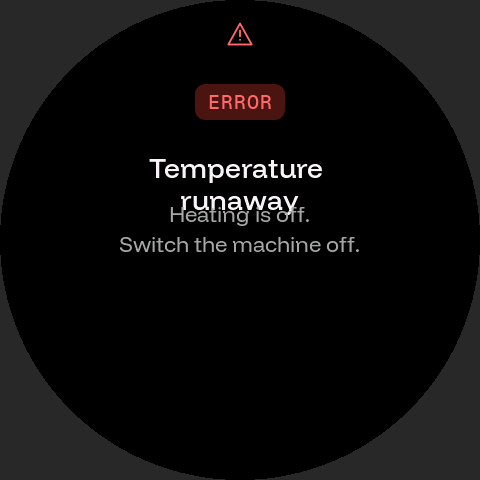
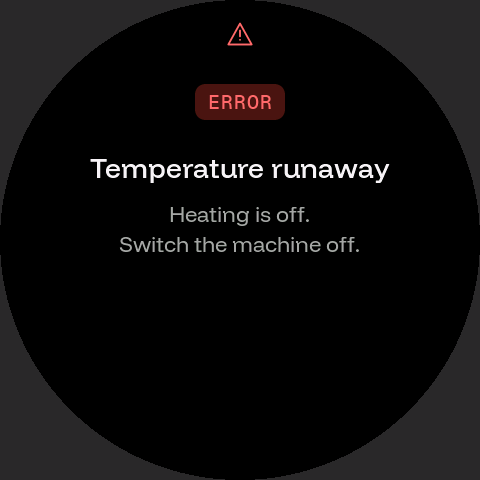
Display: a fault's title is one line across the content width
"Temperature runaway" wrapped in the 276 px square and its second line ran into the sentence under it. The
core check now asserts the title clears the first line.

Changed region(s): [[0.1875, 0.3125, 0.8125, 0.375], [0.375, 0.4062, 0.625, 0.4375]]

diff --git a/src/display/ui/bettermate/screens/FaultScreen.cpp b/src/display/ui/bettermate/screens/FaultScreen.cpp
@@ -46,7 +46,10 @@ void FaultScreen::build(lv_obj_t *root) {
     chip = part(ui::chip(root, 240 - CHIP_WIDTH / 2, CHIP_Y, "ERROR", Tone::DangerSoft, Tone::Danger), 0);
     lv_obj_set_width(chip, CHIP_WIDTH);
     lv_label_set_long_mode(chip, LV_LABEL_LONG_CLIP);
-    title = part(ui::text(root, 240, TITLE_BASELINE, Type::Title, Tone::Ink, "", tokens::DISPLAY_SQUARE), 0);
+    // A 20-character title is wider than the text square ("Temperature runaway" is about 290 px), and above the
+    // centre the face has room for it: one line across the content width, never wrapped onto the lines below.
+    title = part(ui::text(root, 240, TITLE_BASELINE, Type::Title, Tone::Ink, "", tokens::DISPLAY_CONTENT), 0);
+    ui::clamp(title, tokens::DISPLAY_CONTENT);
     for (int i = 0; i < 2; ++i)
         lines[i] = part(ui::text(root, 240, LINE_BASELINE[i], Type::Body, Tone::Muted, "", tokens::DISPLAY_SQUARE), 1);
     action = part(ui::pill(root, 240, ACTION_Y, ACTION_WIDTH, "RESTART", Tone::Primary), 2);

diff --git a/scripts/verify_display_core.py b/scripts/verify_display_core.py
@@ -106,6 +106,8 @@ def check_fault(page, title, lines, action, what):
     checks.true(len(title) <= 20, f"{what}: the title is at most 20 characters")
     for i, line in enumerate(lines):
         shown = page.find(line)
+        if i == 0:
+            checks.true(name is not None and shown is not None and name["y2"] < shown["y1"], f"{what}: the title is one line, clear of '{line}'")
         checks.true(shown is not None and shown["baseline"] == 222 + 30 * i and shown["font"] == 27, f"{what}: '{line}' in screen-body at {222 + 30 * i}")
         checks.color(shown and shown["color"], MUTED, f"{what}: '{line}' is ink-muted")
         checks.true(len(line) <= 25, f"{what}: '{line}' is at most 25 characters")
